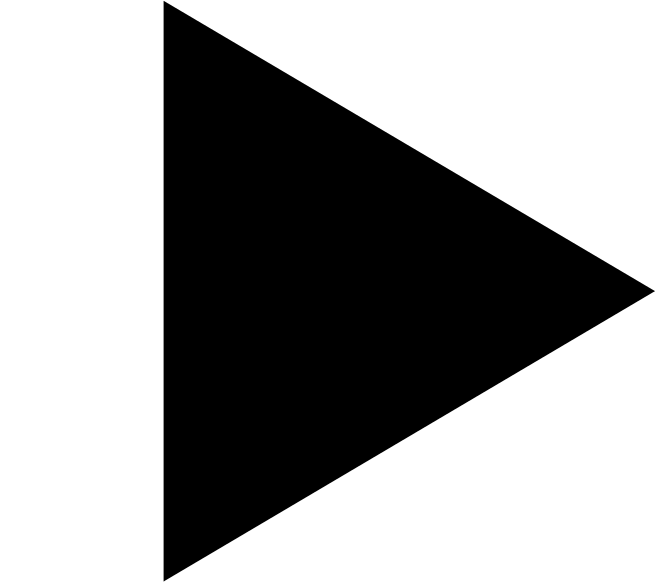
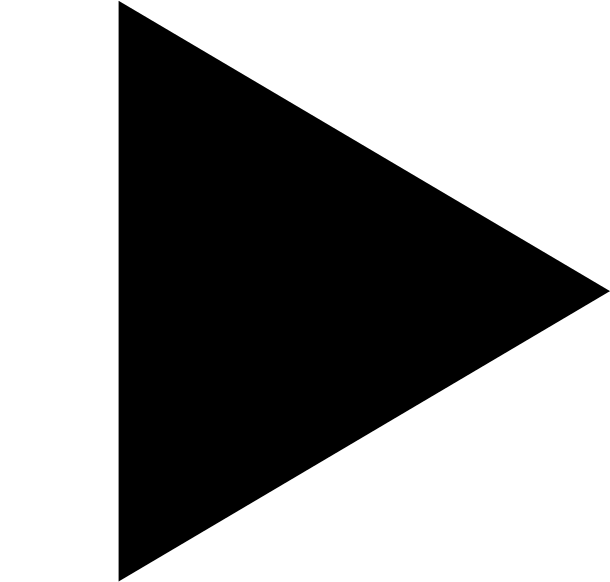
play

diff --git a/style/style.css b/style/style.css
@@ -39,7 +39,7 @@ h4
 	width: 100%;
 	top: 0;
 	left: 0;
-	background-size: 40%;
+	background-size: 30%;
 	background-position: center;
 	position: fixed;
 }
